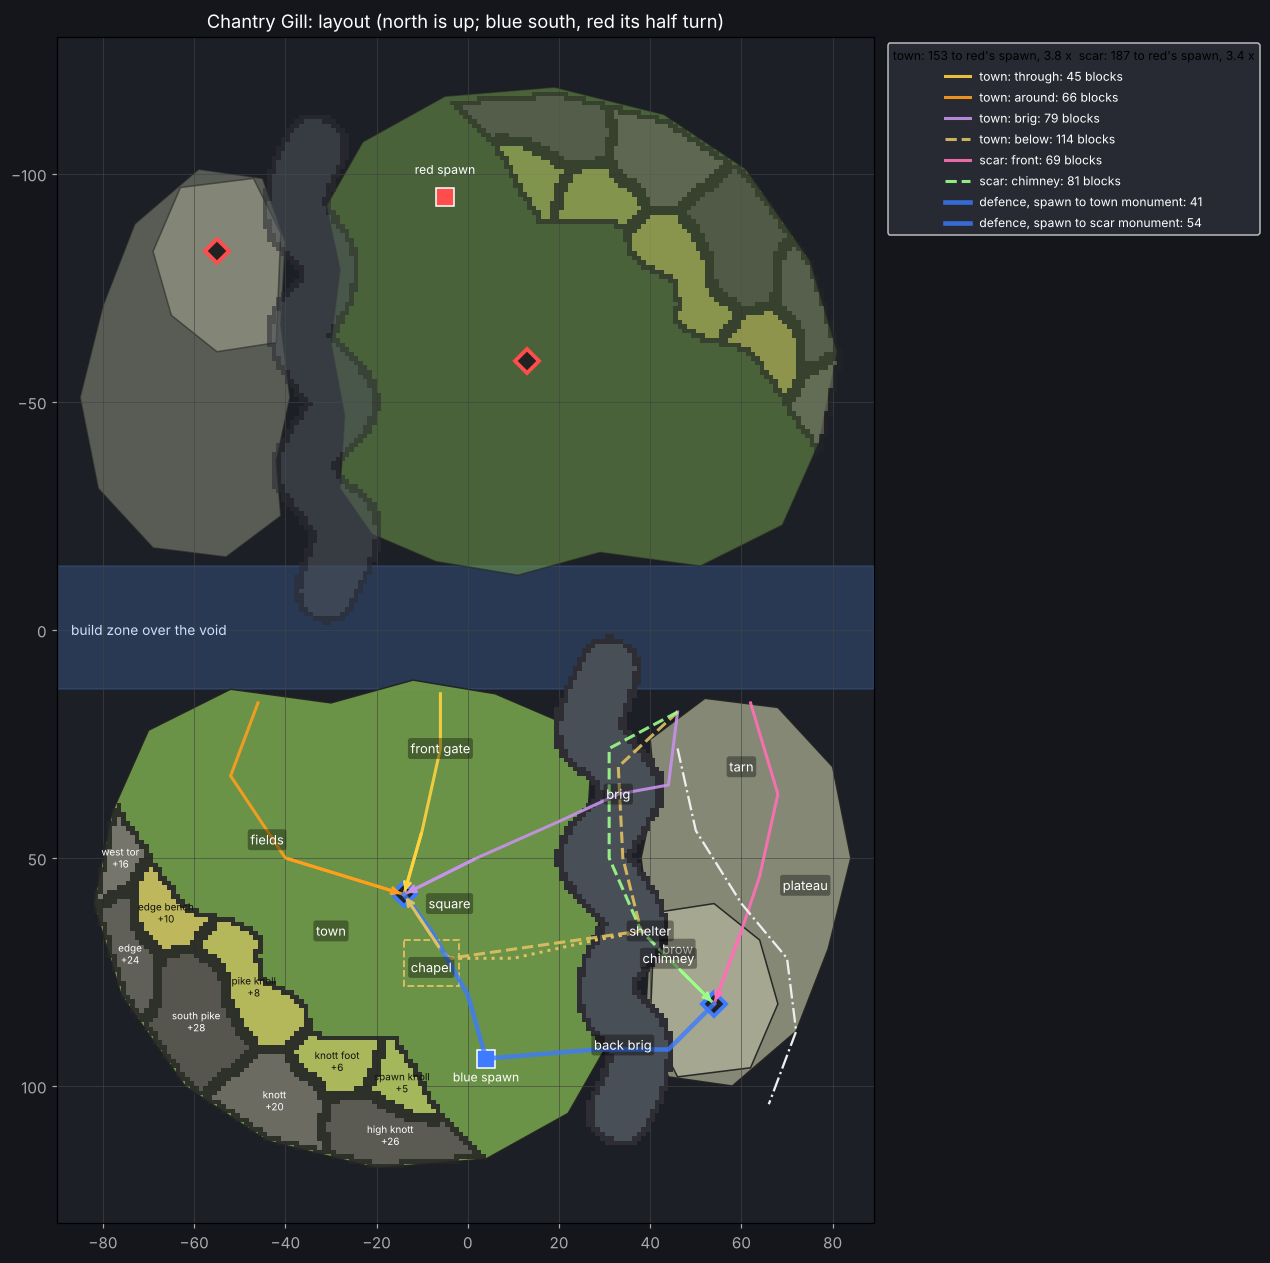
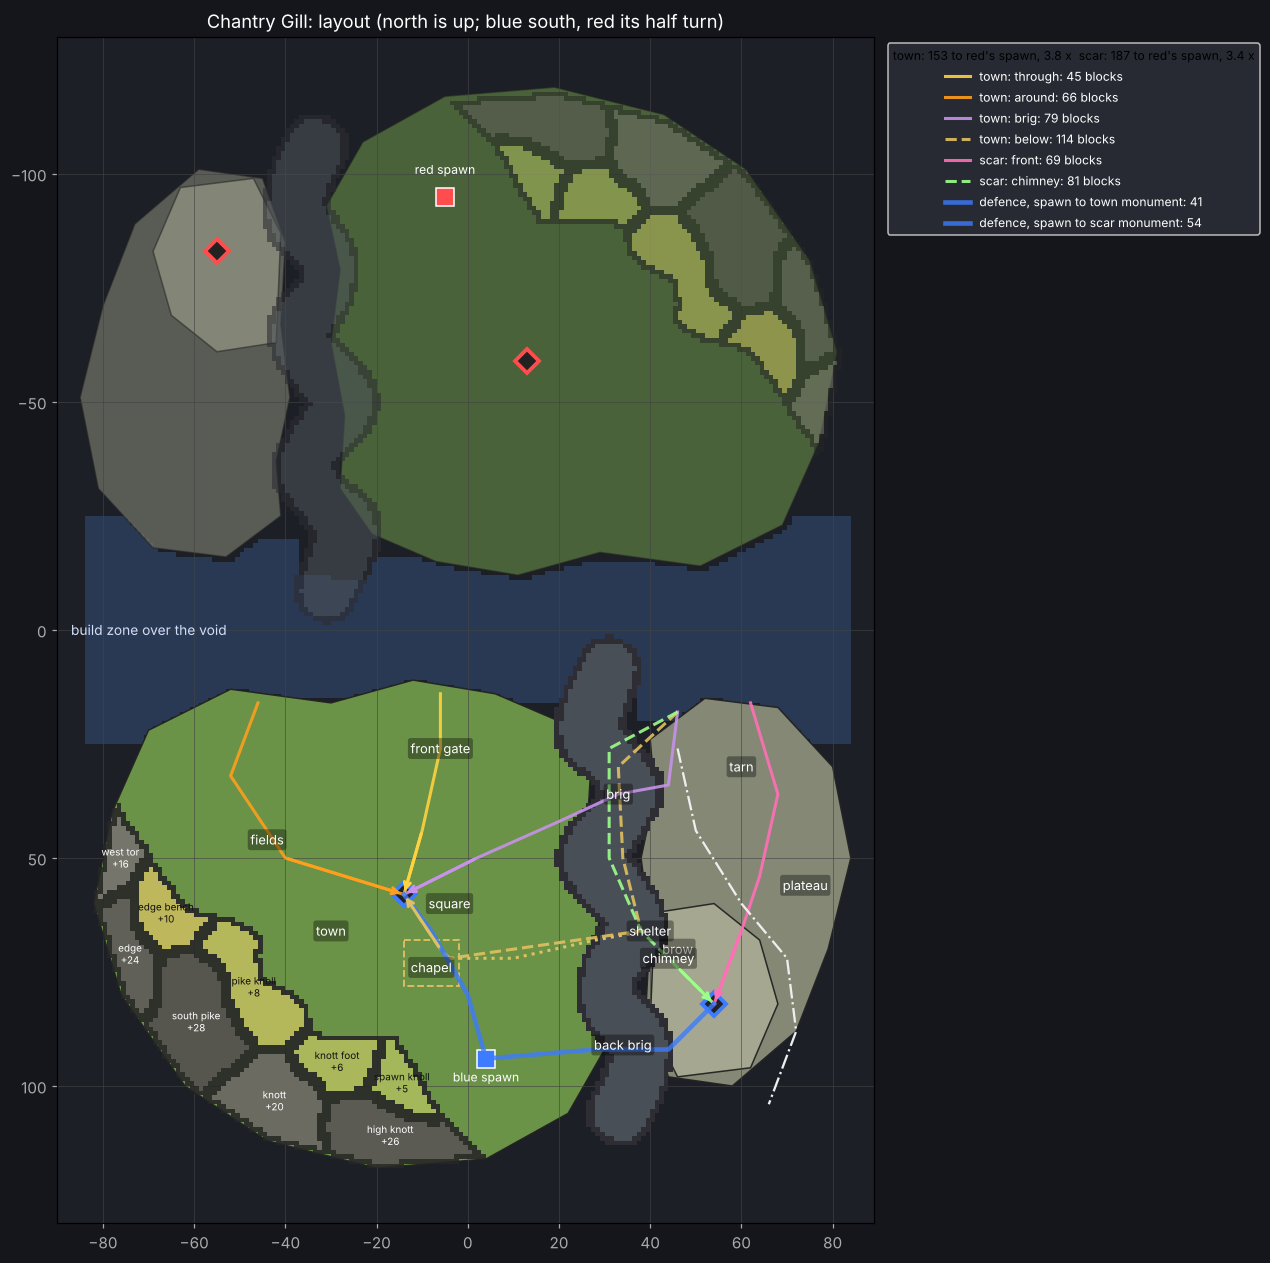
Chantry Gill: the build zone from coast to coast, column by column, read off the built land
Every front coast column now has the zone in front of it; the fixed band left up to six blocks unbuildable.

Claude-Session: https://claude.ai/code/session_01SkxaMovP21NqxJRVezmVa6

diff --git a/freeform/lib/boards/chantry-gill/scripts/zone.py b/freeform/lib/boards/chantry-gill/scripts/zone.py
@@ -1,0 +1,59 @@
+"""Chantry Gill's build zone: the whole of the void between the two coasts that face each other, column by column,
+so a player can bridge out from any block of the front coast and nowhere is it unclear where building stops.
+
+    edges()       {x: z} the first land of blue's front coast in each column (red's is its half turn)
+    columns()     {x: (z0, z1)} the zone in each column, inclusive: from red's coast to blue's, held within CAP
+    rects()       the zone as rectangles (x0, z0, x1, z1), runs of columns with the same span merged
+    mask(X, Z)    the zone on a grid
+
+Past CAP blocks from the middle a coast has turned into an island's flank, and the zone stops there: the flanks are
+not the front, and a zone reaching round them would let a team build round the board's sides.
+"""
+import functools
+
+import numpy as np
+
+CAP = 24
+
+
+@functools.lru_cache(maxsize=1)
+def edges():
+    import terrain as TR
+    import layout as L
+    land = TR.arrays()["landmask"] > 0.5
+    X, Z = L.grid(TR.X_RANGE, TR.Z_RANGE)
+    out = {}
+    for i in range(land.shape[0]):
+        zs = Z[i][land[i] & (Z[i] >= 0)]
+        if len(zs):
+            out[int(X[i, 0])] = int(zs.min())
+    return out
+
+
+def columns():
+    b = edges()
+    out = {}
+    for x in range(min(min(b), -1 - max(b)), max(max(b), -1 - min(b)) + 1):
+        blue = min(b.get(x, CAP + 1), CAP + 1)
+        red = -1 - min(b.get(-1 - x, CAP + 1), CAP + 1)                 # (x, z) -> (-1 - x, -1 - z)
+        out[x] = (red + 1, blue - 1)
+    return out
+
+
+def rects():
+    cols = sorted(columns().items())
+    out, start, span = [], None, None
+    for x, s in cols + [(None, None)]:
+        if s != span:
+            if span is not None:
+                out.append((start, span[0], prev, span[1]))
+            start, span = x, s
+        prev = x
+    return out
+
+
+def mask(X, Z):
+    m = np.zeros(X.shape, bool)
+    for x0, z0, x1, z1 in rects():
+        m |= (X >= x0) & (X <= x1) & (Z >= z0) & (Z <= z1)
+    return m

diff --git a/freeform/lib/boards/chantry-gill/scripts/mapxml.py b/freeform/lib/boards/chantry-gill/scripts/mapxml.py
@@ -1,10 +1,11 @@
 """Write Chantry Gill's map.xml: the teams, spawns, observer and the four monuments come from objectives.py; the kit
-(a diamond pickaxe, which breaks obsidian), building over the void only in the build zone between the teams, and
+(a diamond pickaxe, which breaks obsidian), building over the void only in the build zone between the two coasts (zone.py), and
 the build height are stated here.
 
     python3 mapxml.py > map.xml
 """
 import objectives as P
+import zone as ZN
 from pgmvox.play.rules import Build, Item, Kit, Map, terrain_of
 
 M = Map("Chantry Gill", "1.0.0", "Destroy the enemy's two monuments: the one in the town's square and the one on the Scar.",
@@ -21,5 +22,5 @@ M = Map("Chantry Gill", "1.0.0", "Destroy the enemy's two monuments: the one in 
             Item("leather chestplate", unbreakable=True, team_color=True, wear="chestplate"),
             Item("chainmail leggings", unbreakable=True, wear="leggings"),
             Item("leather boots", unbreakable=True, team_color=True, wear="boots")),
-        build=Build(areas=[(-90, -14, 89, 13)], max_height=P.MAX_BUILD))
+        build=Build(areas=ZN.rects(), max_height=P.MAX_BUILD))
 print(M.xml())

diff --git a/freeform/lib/boards/chantry-gill/scripts/walk.py b/freeform/lib/boards/chantry-gill/scripts/walk.py
@@ -11,6 +11,7 @@ import numpy as np
 import layout as L
 from layout import FLOOR as F
 import objectives as P
+import zone as ZN
 from pgmvox import World
 from pgmvox.read import audit
 from pgmvox.read.walk import MoveRules, nearest, walk
@@ -23,7 +24,12 @@ spawns = {o.team: o.at for o in O.of(Spawn)}
 mons = O.of(Destroyable)
 X = np.arange(w.x0, w.x0 + w.sx)[:, None] + 0 * np.arange(w.sz)[None, :]
 Z = np.arange(w.z0, w.z0 + w.sz)[None, :] + 0 * np.arange(w.sx)[:, None]
-zone = (Z >= -14) & (Z <= 13)
+zone = ZN.mask(X, Z)
+ground0 = w.ids[:, 0, :] != 0
+coast = [(x, z) for x, z in ZN.edges().items() if z <= ZN.CAP]
+cut_off = [(x, z) for x, z in coast if not zone[x - w.x0, z - 1 - w.z0] or ground0[x - w.x0, z - 1 - w.z0]]
+print(f"build zone: {len(ZN.rects())} rectangles, {int(zone.sum())} columns; front coast columns {len(coast)}, "
+      f"with no zone in front of them {len(cut_off)}")
 foot = MoveRules(max_drop=3, jumps=False)
 built = MoveRules(max_drop=3, jumps=False, build=(zone, (F - 10, F + 20)))
 

diff --git a/freeform/lib/boards/chantry-gill/scripts/sketch_layout.py b/freeform/lib/boards/chantry-gill/scripts/sketch_layout.py
@@ -16,7 +16,9 @@ import layout as L                                                              
 fig, ax = plt.subplots(figsize=(11, 14), dpi=110)
 ax.set_facecolor("#1d1f26")
 x0, x1 = L.X_RANGE
-ax.add_patch(plt.Rectangle((x0, L.BUILD_Z[0]), x1 - x0, L.BUILD_Z[1] - L.BUILD_Z[0], color="#3b5a8c", alpha=0.45))
+import zone as ZN                                                                      # noqa: E402
+for zx0, zz0, zx1, zz1 in ZN.rects():
+    ax.add_patch(plt.Rectangle((zx0, zz0), zx1 - zx0 + 1, zz1 - zz0 + 1, color="#3b5a8c", alpha=0.45, lw=0))
 ax.text(x0 + 3, 0, "build zone over the void", color="#cfe0ff", va="center", fontsize=9)
 for team, f in (("blue", lambda p: p), ("red", L.turn)):
     pale = team == "red"

diff --git a/freeform/lib/boards/chantry-gill/scripts/layout.py b/freeform/lib/boards/chantry-gill/scripts/layout.py
@@ -35,7 +35,6 @@ SEEDS = [
     (-14, 112, 26, "high knott"), (-12, 98, 5, "spawn knoll"),
 ]
 SCENERY_RISE = 12
-BUILD_Z = (-14, 13)                       # the build zone over the void between the teams, the board's whole width
 X_RANGE = (-90, 89)
 FLOOR = 18                                   # the fell at the front coast: every height counts from it
 

diff --git a/freeform/lib/boards/chantry-gill/PLAN.md b/freeform/lib/boards/chantry-gill/PLAN.md
@@ -21,7 +21,7 @@ Blue holds the south (z > 0); red is blue's image under the half turn, (x, z) ->
 | **Highlands** | one band of high ground along the main island's west coast and back, 18 to 44 blocks deep, cut into pieces that fit together like a puzzle: five heights (the west tor +16, the edge +24, the south pike +28, the knott +20, the high knott +26), scenery fenced off by their faces, and four foothills nested into the notches between them and against the fell (the edge bench +10, the pike knoll +8, the knott foot +6, the spawn knoll +5), played on; the spawn stands under the spawn knoll |
 | **Side island**, the Scar | about 45 across and 85 deep, east of the main island, in three storeys: its rim along the gill at the fell's height, a bench at y 28 stepped back where the gill bends away (the second monument on it), and the plateau behind the upper face to y 39, whose line slants to the gill's so face and gorge never run together; the tarn at its front |
 | **The Gill** | a gorge winding between the islands, 12 to 18 across, its floor at y 12 and its rims 9 to 10 over it; the brig crosses it near the front and a timber bridge at the back; it opens to the void at both ends |
-| **The void** | between the teams, from z -14 to 13, crossed by a build zone the board's whole width |
+| **The void** | between the teams, 22 to 40 blocks across; the build zone is the whole of it from coast to coast, column by column (`scripts/zone.py`), held within 24 of the middle where a coast turns into a flank |
 
 Under the half turn each team's side island lies opposite the other team's main island, so a team landing from the
 build zone comes ashore either on the enemy's fell or on the enemy's Scar.
@@ -104,6 +104,11 @@ over the gill holds the brig and the back bridge under its fire.
 **Every monument floats three blocks over its ground, with no tree, rock or building within four blocks.** Grass
 and flowers grow under it, and the ground cover keeps its tall plants and bushes out of the same four blocks. The bench carries a broken sheepfold east of its monument as the defender's cover, and
 rocks fallen off the plateau to the west.
+
+**The build zone reaches every block of both front coasts.** It is read off the built land, the void from red's
+coast to blue's in each column, so `walks.txt` counts the front coast's 146 columns and finds none without the zone
+in front of it. A fixed band from z -14 to 13 had left up to six blocks of unbuildable void in front of the Scar and
+the gill's mouth.
 
 **Two walks run longer than planned.** The town monument is 52 from the spawn against 41 planned, because the street
 bends round the chapel. The enemy walks of 172 and 243 are long for a destroy board, because the void between the

diff --git a/reports/chantry-gill.md b/reports/chantry-gill.md
@@ -53,6 +53,9 @@ and the own Scar monument 59, the Scar reached over the timber back bridge. The 
 the build zone. Those two are over the band a destroy board is held to. The open point in `PLAN.md` says so, and a
 second version would close the void first.
 
+**The build zone is the whole void between the two front coasts, column by column.** Every one of the front
+coast's 146 columns has the zone directly in front of it; a fixed band had left gaps of up to six blocks.
+
 **Cover keeps its distance from every monument.** No tree, rock or building stands within four blocks of one,
 checked on the built world. The bench carries a broken sheepfold east of its monument as cover for whoever holds
 it.
